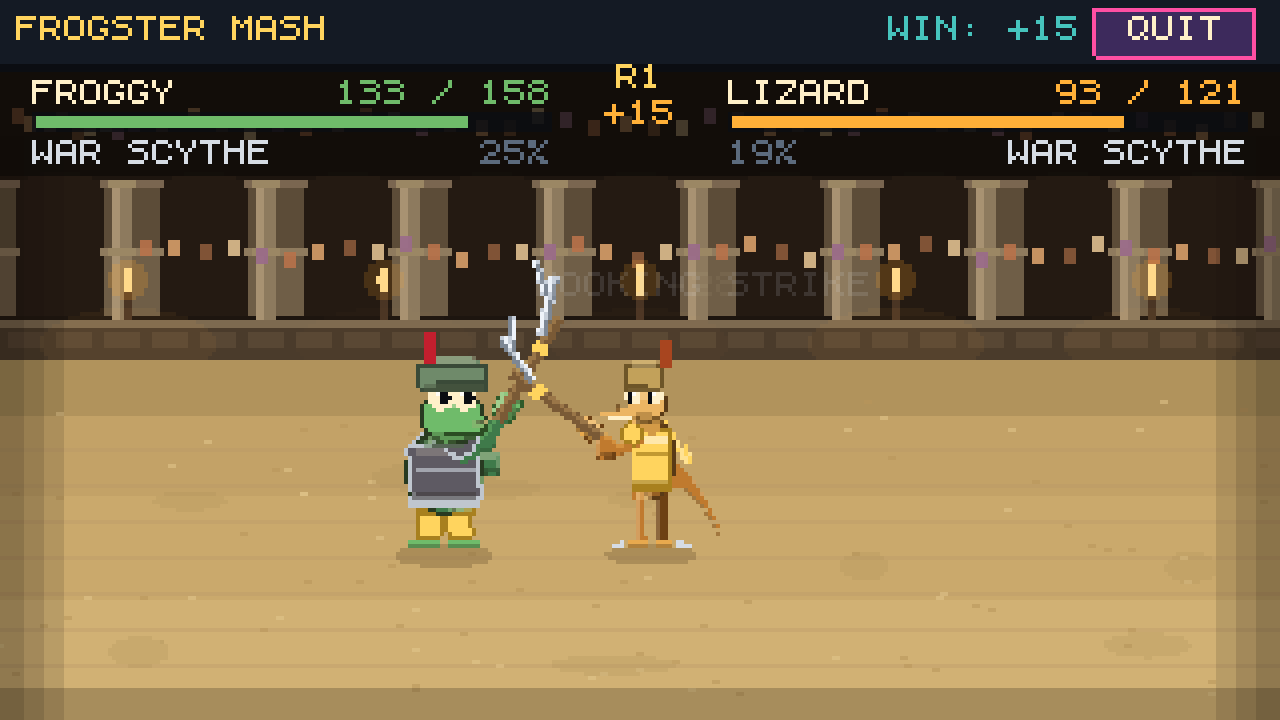
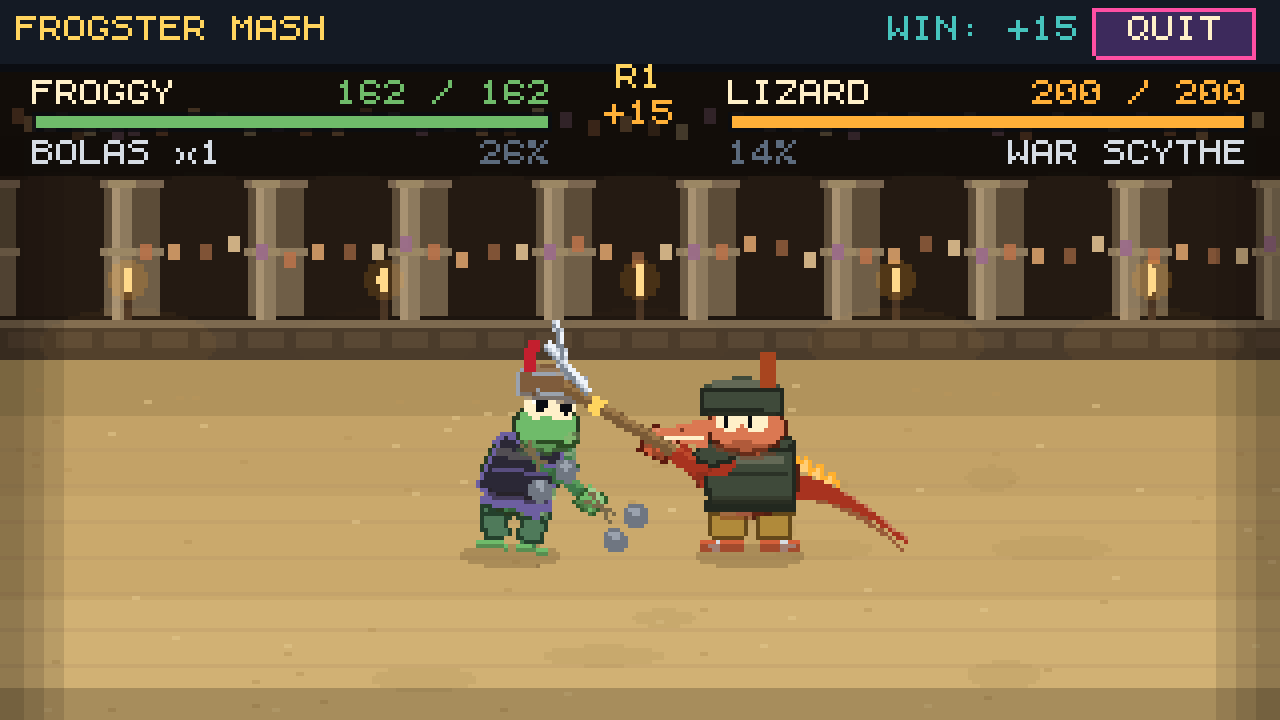
Mash: ten more weapons and ten more pieces of armour
48 weapons and 32 armours, up from 38 and 22.

THE WEAPONS GO INTO THE MIDDLE OF THE RACK, NOT ONTO THE ENDS OF IT.  The
rack is held to a gate -- nothing above 80% and nothing under 15% across
every pairing -- and the fastest way to break a balanced set is to bolt a
new best weapon onto it.  So every one of these earns its place with
reach, tempo, guard, hits or a specialty rather than with raw power, and
each is a trade that nobody already in the rack offers:

  SICKLE      light   hooks round a guard, 16% pierce
  WAR FAN     light   two hits a swing AND 16% guard
  SCIMITAR    blade   a sweeping sword, between the gladius and the katana
  ESTOC       blade   34% pierce -- the answer to plate
  PIKE        pole    9-10 reach, the longest in the game, useless up close
  GLAIVE      pole    a long arc with an edge on it
  MAUL        heavy   35% stagger: they do not answer the first one
  BARDICHE    heavy   an axe on a pole, and it swings like one
  HARPOON     thrown  one throw, and it drags them back with it
  BOLAS       thrown  barely hurts; they are not going anywhere

The two throwables use the full-size flight from the last commit, which
takes the weapons that leave the hand from six to eight.

Every one of them has its own sprite -- measured, not assumed: an unknown
key falls through `buildWeapon`'s default to a 5.9 x 6 stub, and none of
the ten do.  No two share a head shape, so each reads from its outline
[…]

diff --git a/src/minigames/frogstermash.ts b/src/minigames/frogstermash.ts
@@ -120,6 +120,17 @@ export const MOVES: Record<string, Move[]> = {
     { name: 'COUNTER PUNCH', dmg: 1.3, wind: 0.45, reach: 1.0, when: 'counter', anim: 'upper' },
   ],
   knuckles: [M.combo('PUNCH COMBO', 3), M.bash('UPPERCUT', 1.1), M.stab('HOOK'), M.charge('RUSH', 1.0)],
+  // ---- the ten added to the rack
+  sickle: [M.stab('HOOKING SLASH'), M.low('ANKLE HOOK'), M.combo('TWO QUICK CUTS', 2), M.counter('CATCH AND PULL', 1.3)],
+  warfan: [M.combo('FAN FLURRY', 3), M.sweep('SPREAD SWEEP', 0.95, 1.1), M.counter('FOLDING PARRY', 1.35), M.stab('FAN JAB')],
+  scimitar: [M.sweep('CURVING SLASH', 1.1, 1.15), M.over('RISING CUT', 1.2), M.spin('TURNING SLASH', 1.1), M.counter('DRAW CUT', 1.3)],
+  estoc: [M.crush('PLATE SPLITTER', 1.4), M.thrust('DRIVING THRUST', 1.05, 1.25), M.stab('SHORT POINT'), M.counter('STOP THRUST', 1.35)],
+  pike: [M.thrust('SET AND BRACE', 1.05, 1.5), M.thrust('LONG REACH', 0.95, 1.6), M.low('BUTT SPIKE'), M.counter('RECEIVE THE CHARGE', 1.45)],
+  glaive: [M.sweep('WIDE ARC', 1.15, 1.25), M.over('OVERHEAD CLEAVE', 1.25), M.thrust('POINT WORK', 1.0, 1.35), M.spin('TURNING CUT', 1.15)],
+  maul: [M.over('OVERHEAD MAUL', 1.35, 1.45), M.slam('FLATTENING BLOW', 1.3), M.bash('HAFT SMASH'), M.finish('FINISHING SWING', 1.4)],
+  bardiche: [M.sweep('HEAVY ARC', 1.2, 1.2), M.over('SPLITTING BLOW', 1.3), M.crush('ARMOUR BREAKER', 1.25), M.low('LEG CHOP')],
+  harpoon: [M.hurl('HARPOON THROW', 1.2), M.thrust('BARBED THRUST', 1.05, 1.3), M.stab('CLOSE BARB'), M.counter('HOOK AND HAUL', 1.3)],
+  bolas: [M.hurl('BOLAS THROW'), M.hurl('TANGLING THROW', 1.05), M.stab('CLOSE SWING'), M.counter('WHIP ROUND', 1.2)],
   dagger: [M.stab('RAPID STAB'), M.combo('DOUBLE STAB', 2), M.low('LOW SLASH'), M.counter('BACKSTEP COUNTER', 1.3)],
   twindagger: [M.combo('FOUR HIT FLURRY', 4), M.stab('ALTERNATING STABS'), M.spin('SPINNING DOUBLE', 1.0), M.counter('CROSSING SLASH', 1.25)],
   knife: [M.thrust('PRECISION THRUST', 1.1, 1.15), M.crush('ARMOUR GAP STAB', 1.35), M.stab('QUICK SLASH'), M.counter('COUNTER STRIKE')],
@@ -548,6 +559,47 @@ export const WEAPONS: WeaponDef[] = [
   { key: 'magicstaff', name: 'MAGIC STAFF', power: [3, 5], heavy: [2, 4], resist: [4, 7], reach: [5, 7], hits: 1, guard: 0, tempo: 1.0,
     spec: { note: 'IT DOES NOT CARE WHAT YOU ARE WEARING', sweep: 0.2,
       ranged: { far: 182, dmg: 0.59, power: [3, 8], ammo: Infinity, reload: 1.22, wind: 1.0, shot: 'spark', speed: 186, arc: 0.1, hold: 109, drift: 0.18, pierce: 0.25 } } },
+  // ================= TEN MORE, SPREAD ACROSS THE EXISTING TIERS =================
+  //
+  // Deliberately NOT at the ends of the range.  The rack is held to a gate --
+  // nothing above 80% and nothing under 15% across every pairing -- and the
+  // quickest way to break a balanced set is to bolt a new best weapon onto
+  // it.  Every one of these earns its place with REACH, TEMPO, GUARD, HITS or
+  // a specialty rather than with raw power, and each is a trade somebody
+  // already in the rack does not offer.
+
+  // ---- LIGHT
+  { key: 'sickle', name: 'SICKLE', power: [2, 5], heavy: [1, 3], resist: [4, 7], reach: [2, 4], hits: 1, guard: 0, tempo: 1.45,
+    spec: { note: 'HOOKS ROUND WHATEVER YOU ARE HIDING BEHIND', pierce: 0.16 } },
+  { key: 'warfan', name: 'WAR FAN', power: [2, 4], heavy: [1, 2], resist: [3, 6], reach: [3, 5], hits: 2, guard: 0.16, tempo: 1.5,
+    spec: { note: 'TWO OF EVERYTHING, AND SOMETHING TO HIDE BEHIND', sweep: 0.3 } },
+
+  // ---- BLADES
+  { key: 'scimitar', name: 'SCIMITAR', power: [4, 7], heavy: [3, 5], resist: [5, 8], reach: [5, 7], hits: 1, guard: 0.05, tempo: 1.08,
+    spec: { note: 'THE CURVE DOES THE WORK', sweep: 0.4 } },
+  { key: 'estoc', name: 'ESTOC', power: [3, 6], heavy: [2, 4], resist: [6, 9], reach: [5, 7], hits: 1, guard: 0, tempo: 1.12,
+    spec: { note: 'FINDS THE GAP IN ANYTHING PLATED', pierce: 0.34 } },
+
+  // ---- POLEARMS
+  { key: 'pike', name: 'PIKE', power: [3, 6], heavy: [4, 6], resist: [5, 8], reach: [9, 10], hits: 1, guard: 0, tempo: 0.7,
+    spec: { note: 'NOTHING REACHES YOU. NOTHING CLOSE GETS HIT', atRange: 0.85 } },
+  { key: 'glaive', name: 'GLAIVE', power: [5, 8], heavy: [5, 7], resist: [5, 8], reach: [7, 9], hits: 1, guard: 0.06, tempo: 0.85,
+    spec: { note: 'A LONG ARC WITH AN EDGE ON IT', sweep: 0.5 } },
+
+  // ---- HEAVY
+  { key: 'maul', name: 'MAUL', power: [7, 10], heavy: [7, 9], resist: [7, 10], reach: [5, 7], hits: 1, guard: 0, tempo: 0.64,
+    spec: { note: 'THEY DO NOT GET TO ANSWER THE FIRST ONE', stagger: 0.35, knock: 6 } },
+  { key: 'bardiche', name: 'BARDICHE', power: [6, 9], heavy: [6, 8], resist: [5, 8], reach: [6, 8], hits: 1, guard: 0, tempo: 0.76,
+    spec: { note: 'AN AXE ON A POLE, AND IT SWINGS LIKE ONE', sweep: 0.35, stagger: 0.18 } },
+
+  // ---- AND TWO MORE THAT LEAVE THE HAND
+  { key: 'harpoon', name: 'HARPOON', power: [3, 6], heavy: [3, 5], resist: [4, 7], reach: [6, 8], hits: 1, guard: 0, tempo: 0.95,
+    spec: { note: 'ONE THROW, AND IT DRAGS THEM BACK WITH IT', atRange: 0.5,
+      ranged: { far: 118, dmg: 1.35, power: [5, 9], ammo: 1, reload: 1.15, wind: 1.25, shot: 'spear', speed: 198, arc: 0.24, hold: 67, drift: 0.2, knock: 7, leaves: true } } },
+  { key: 'bolas', name: 'BOLAS', power: [2, 4], heavy: [2, 3], resist: [3, 6], reach: [2, 4], hits: 1, guard: 0, tempo: 1.2,
+    spec: { note: 'BARELY HURTS. THEY WILL NOT BE GOING ANYWHERE', atRange: 0.4,
+      ranged: { far: 104, dmg: 0.7, power: [2, 5], ammo: 2, reload: 1.0, wind: 0.95, shot: 'disc', speed: 172, arc: 0.3, hold: 60, drift: 0.26, stagger: 0.45, leaves: true } } },
+
   { key: 'boomerang', name: 'BOOMERANG', power: [2, 4], heavy: [1, 3], resist: [3, 6], reach: [2, 4], hits: 1, guard: 0, tempo: 1.3,
     spec: { note: 'IT GOES OUT AND IT COMES BACK', fleet: 1.12,
       ranged: { far: 150, dmg: 0.75, power: [3, 7], ammo: Infinity, reload: 0.66, wind: 0.8, shot: 'disc', speed: 172, arc: 0.36, hold: 89, drift: 0.26, returns: true, knock: 3 } } },
@@ -607,6 +659,24 @@ export interface ArmourMat {
 export const MATERIALS: ArmourMat[] = [
   // ---- NOTHING, AND THE THINGS THAT BARELY COUNT
   { key: 'none', name: 'NO ARMOUR', def: 0, evade: 0, heavy: [1, 1], resist: [10, 10], colour: 0x6d5a45, edge: 0x4a3c2d, short: 'NONE', note: 'NOTHING THERE, AND NOTHING TO CARRY' },
+  // ---- TEN MORE, FILLING THE LADDER RATHER THAN EXTENDING IT.
+  //
+  // None of these is better than HEAVY PLATE and none is lighter than cloth:
+  // they go BETWEEN what was already there, so the rack has steps in it
+  // instead of jumps.  Three of them break the pattern on purpose -- bone and
+  // dragon scale shrug off quick hits and not heavy ones, obsidian stops a
+  // great deal and shatters while it does it.
+  { key: 'padded', name: 'PADDED JACK', def: 0.08, evade: 0.05, heavy: [1, 2], resist: [3, 5], colour: 0xc9b48c, edge: 0x8a7654, short: 'PADDED', note: 'CLOTH, BUT ENOUGH OF IT TO NOTICE' },
+  { key: 'hide', name: 'HIDE ARMOUR', def: 0.12, evade: 0, heavy: [2, 4], resist: [4, 6], colour: 0x8a6440, edge: 0x4f3722, short: 'HIDE', note: 'SOMETHING ELSE WORE IT FIRST' },
+  { key: 'studded', name: 'STUDDED LEATHER', def: 0.14, evade: 0, heavy: [3, 5], resist: [6, 8], colour: 0x7f5c3c, edge: 0x9aa2ae, short: 'STUDDED', note: 'LEATHER WITH OPINIONS HAMMERED INTO IT' },
+  { key: 'bone', name: 'BONE ARMOUR', def: 0.17, evade: 0, soft: 0.38, heavy: [3, 5], resist: [4, 6], colour: 0xe4ddc6, edge: 0x9c9482, short: 'BONE', note: 'TURNS THE QUICK ONES. SPLITS ON THE REST' },
+  { key: 'brigandine', name: 'BRIGANDINE', def: 0.19, evade: 0, heavy: [4, 6], resist: [7, 9], colour: 0x6b4f3a, edge: 0xb9c2c8, short: 'BRIG', note: 'PLATES ON THE INSIDE WHERE THEY CANNOT SEE THEM' },
+  { key: 'lamellar', name: 'LAMELLAR ARMOUR', def: 0.22, evade: 0, heavy: [4, 6], resist: [6, 8], colour: 0x8a7f5e, edge: 0x4e4634, short: 'LAMELLAR', note: 'A THOUSAND LITTLE PLATES, ALL LACED TOGETHER' },
+  { key: 'corinthian', name: 'CORINTHIAN HELM', def: 0.24, evade: 0, heavy: [4, 6], resist: [7, 9], colour: 0xb08d4a, edge: 0x6b5324, short: 'CORINTH', note: 'YOU WILL LOOK MAGNIFICENT AND HEAR NOTHING' },
+  { key: 'knight', name: 'KNIGHT HELM', def: 0.27, evade: 0, heavy: [5, 7], resist: [7, 9], colour: 0xa9b2bd, edge: 0x59616b, short: 'KNIGHT', note: 'A LETTERBOX TO SEE THE WHOLE FIGHT THROUGH' },
+  { key: 'obsidian', name: 'OBSIDIAN ARMOUR', def: 0.29, evade: 0, heavy: [5, 7], resist: [2, 4], colour: 0x2b2836, edge: 0x6d5fa0, short: 'OBSIDIAN', note: 'STOPS ALMOST ANYTHING, ALMOST ONCE' },
+  { key: 'dragon', name: 'DRAGON SCALE', def: 0.31, evade: 0, soft: 0.34, heavy: [6, 8], resist: [7, 9], colour: 0x4f7a5a, edge: 0x24402c, short: 'DRAGON', note: 'NOBODY ASKS WHERE IT CAME FROM' },
+
   { key: 'cloth', name: 'LIGHT CLOTH ARMOUR', def: 0.04, evade: 0.09, heavy: [1, 1], resist: [2, 4], colour: 0xd8cbb0, edge: 0x9a8e74, short: 'CLOTH', note: 'YOU WILL BE VERY QUICK AND VERY SORRY' },
   { key: 'tuxedo', name: 'TUXEDO', def: 0.05, evade: 0, heavy: [1, 2], resist: [2, 4], colour: 0x2a2d3a, edge: 0xdfe4ee, short: 'TUXEDO', note: 'FIVE PERCENT DEFENCE. THE REST IS FASHION' },
   { key: 'crown', name: 'CROWN', def: 0.06, evade: 0, heavy: [1, 2], resist: [3, 5], colour: 0xffd45e, edge: 0xa8801e, short: 'CROWN', note: 'IT PROTECTS NOTHING AND MEANS EVERYTHING' },
@@ -2718,6 +2788,62 @@ function buildWeapon(scene: Phaser.Scene, key: string, tint: number, single = fa
     // ---- THE ROMAN AND THE POLEARM RACK
     case 'gladius':
       blade(9, 0, 16, 3.5); bar(0, 0, 2.5, 8, PALETTE.gold); bar(-3, 0, 4, 4, 0x6a4a2a);
+      break;
+    // ---- THE TEN ADDED TO THE RACK.  Each one has to be recognisable from
+    // its silhouette alone at this size, which is why no two of them share a
+    // head shape.
+    case 'sickle':
+      bar(2, 0, 7, 2.5, 0x6a4a2a);
+      bar(9, -3, 8, 2, steel); bar(13, 1.5, 2, 7, steel); bar(9, -3.6, 8, 1, shine);
+      break;
+    case 'warfan':
+      bar(1, 0, 4, 2.5, 0x3b2a1a);
+      for (let k = -2; k <= 2; k++) c.add(scene.add.rectangle(8, k * 2.1, 11, 1.4, steel).setAngle(k * 9));
+      bar(13, 0, 1.5, 10, shine);
+      break;
+    case 'scimitar':
+      bar(0, 0, 4, 3, 0x6a4a2a); bar(2, 0, 2.5, 7, PALETTE.gold);
+      for (let k = 0; k < 4; k++) bar(6 + k * 4, -k * 0.9, 5, 3 - k * 0.2, k % 2 ? steel : shine);
+      c.add(scene.add.triangle(22, -3.4, 0, 0, 5, -1.5, 0, 3, steel));
+      break;
+    case 'estoc':
+      bar(0, 0, 4, 2.5, 0x3b2a1a); bar(2.5, 0, 2, 8, PALETTE.gold);
+      bar(14, 0, 22, 2, steel); bar(14, -0.8, 22, 0.8, shine);
+      c.add(scene.add.triangle(26, 0, 0, -1.6, 5, 0, 0, 1.6, shine));
+      break;
+    case 'pike':
+      haft(8, 0, 38, 2.5);
+      c.add(scene.add.triangle(30, 0, 0, -3, 9, 0, 0, 3, steel));
+      bar(30, -1, 7, 1, shine); bar(12, 0, 3, 4.5, 0x6a4a2a);
+      break;
+    case 'glaive':
+      haft(5, 0, 28, 2.5);
+      c.add(scene.add.triangle(24, -2.4, 0, 0, 10, -3, 2, 6, steel));
+      bar(23, -4, 8, 1, shine); bar(17, 0, 2, 5, PALETTE.gold);
+      break;
+    case 'maul':
+      haft(4, 0, 22, 3);
+      bar(19, 0, 9, 13, 0x6f7681); bar(19, -5, 9, 2.5, 0x9aa2ae);
+      bar(19, 5.5, 9, 2, 0x4c525b); bar(15, 0, 2, 13, 0x3b2a1a);
+      break;
+    case 'bardiche':
+      haft(5, 0, 26, 2.5);
+      c.add(scene.add.triangle(21, -3, 0, -7, 9, -2, 0, 7, steel));
+      bar(20, -6, 8, 1, shine); bar(14, 0, 2, 4, 0x6a4a2a);
+      break;
+    case 'harpoon':
+      haft(6, 0, 28, 2.5);
+      c.add(scene.add.triangle(23, 0, 0, -3.5, 9, 0, 0, 3.5, steel));
+      // the barbs, which are the whole of what makes it a harpoon
+      bar(19, -3, 5, 1.6, steel, -32); bar(19, 3, 5, 1.6, steel, 32);
+      bar(-6, 0, 6, 1, 0xbfae8a);
+      break;
+    case 'bolas':
+      bar(2, 0, 9, 1, 0x7a6a4a, 18); bar(2, 0, 9, 1, 0x7a6a4a, -18);
+      c.add(scene.add.circle(10, 4, 3, 0x6f7681));
+      c.add(scene.add.circle(10, -4, 3, 0x6f7681));
+      c.add(scene.add.circle(9, 3.2, 1.2, 0x9aa2ae));
+      c.add(scene.add.circle(9, -4.8, 1.2, 0x9aa2ae));
       break;
     case 'spear':
       haft(6, 0, 30, 2.5);
